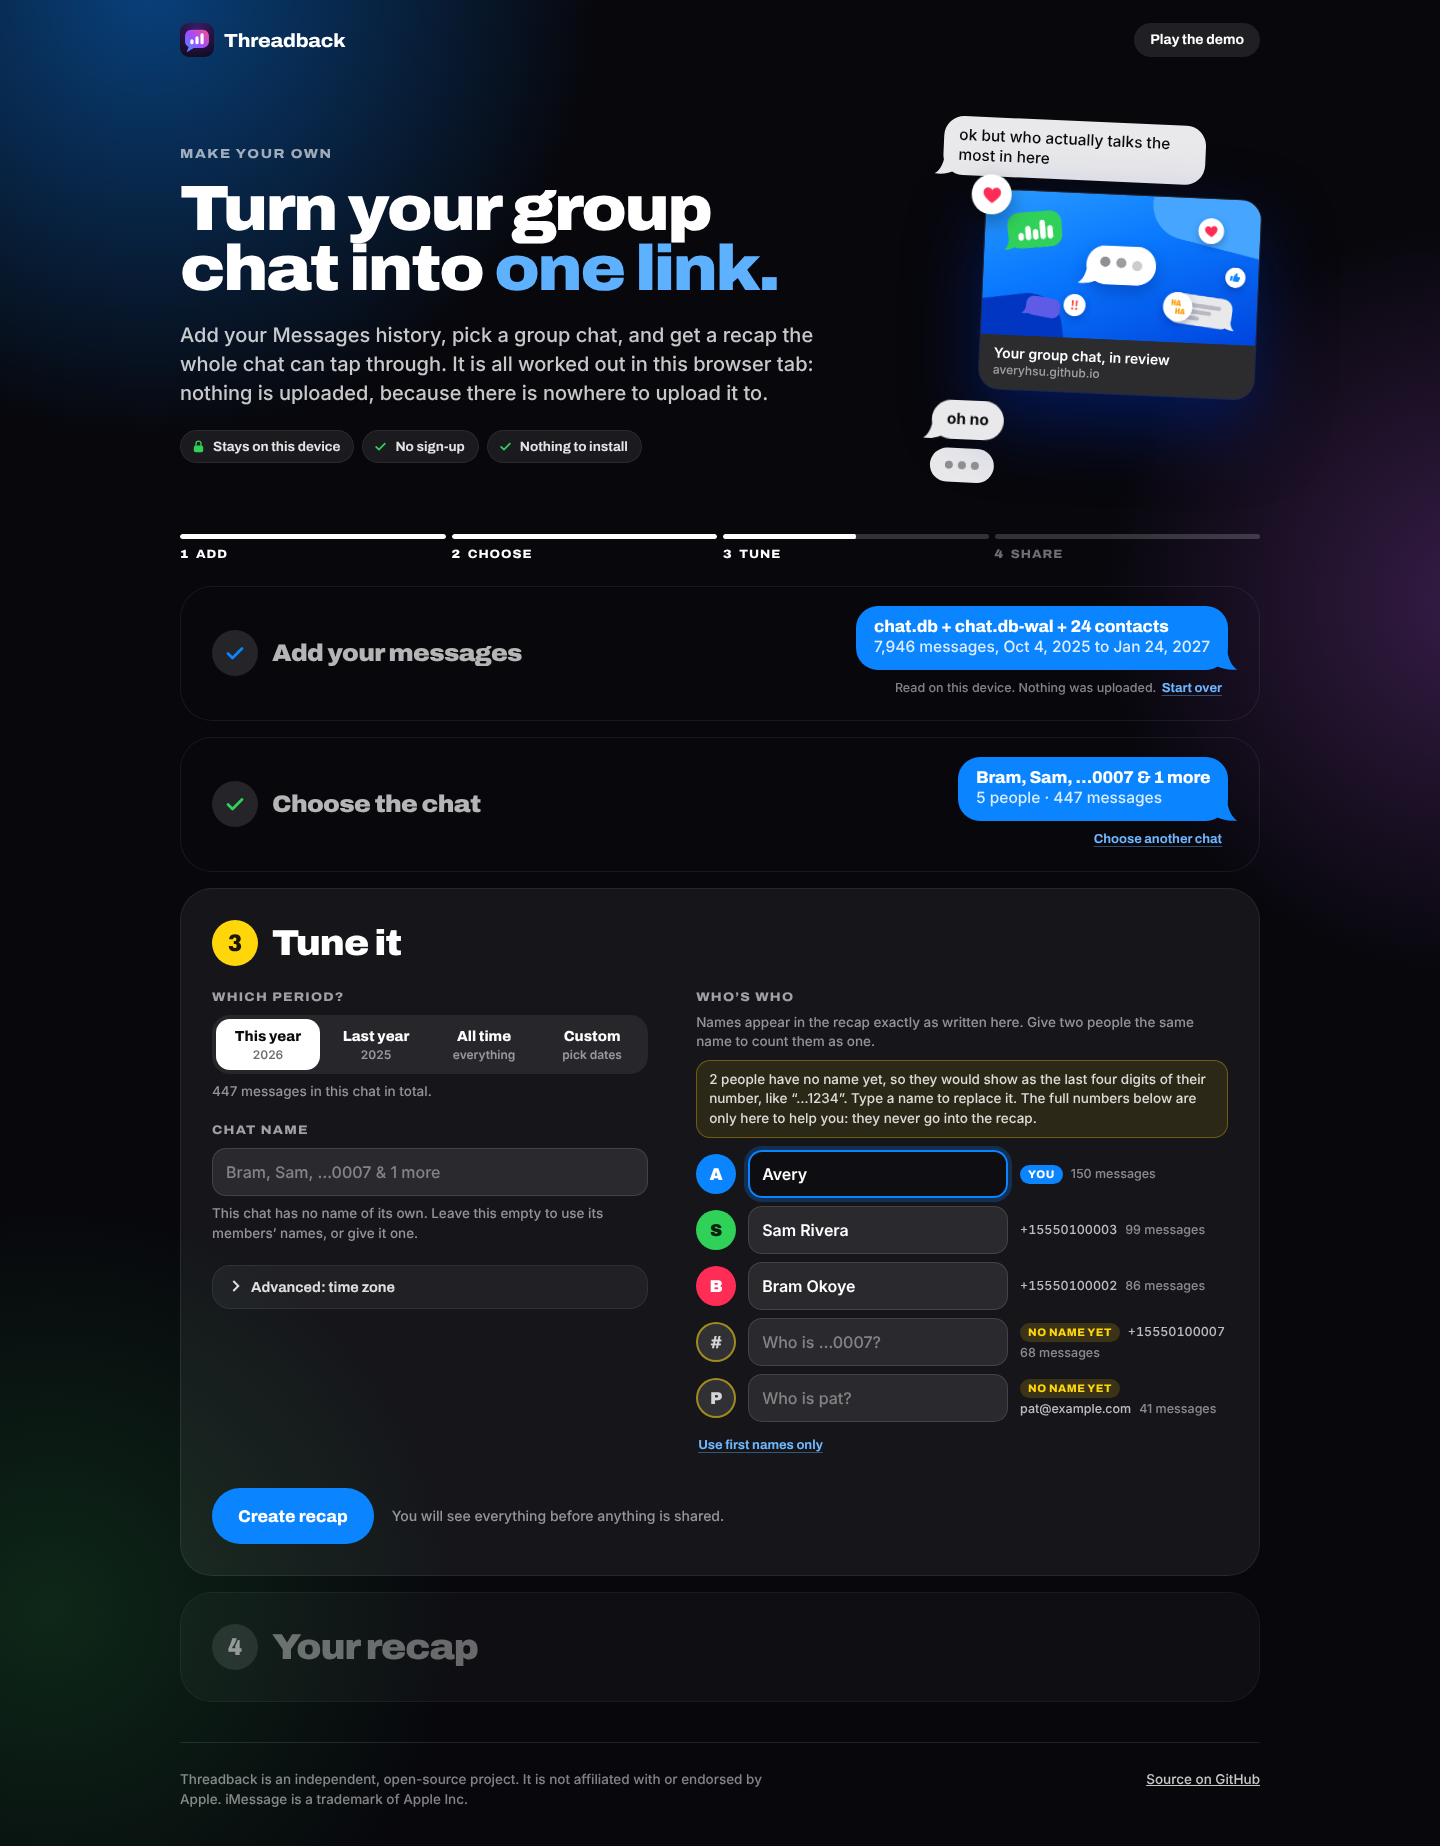
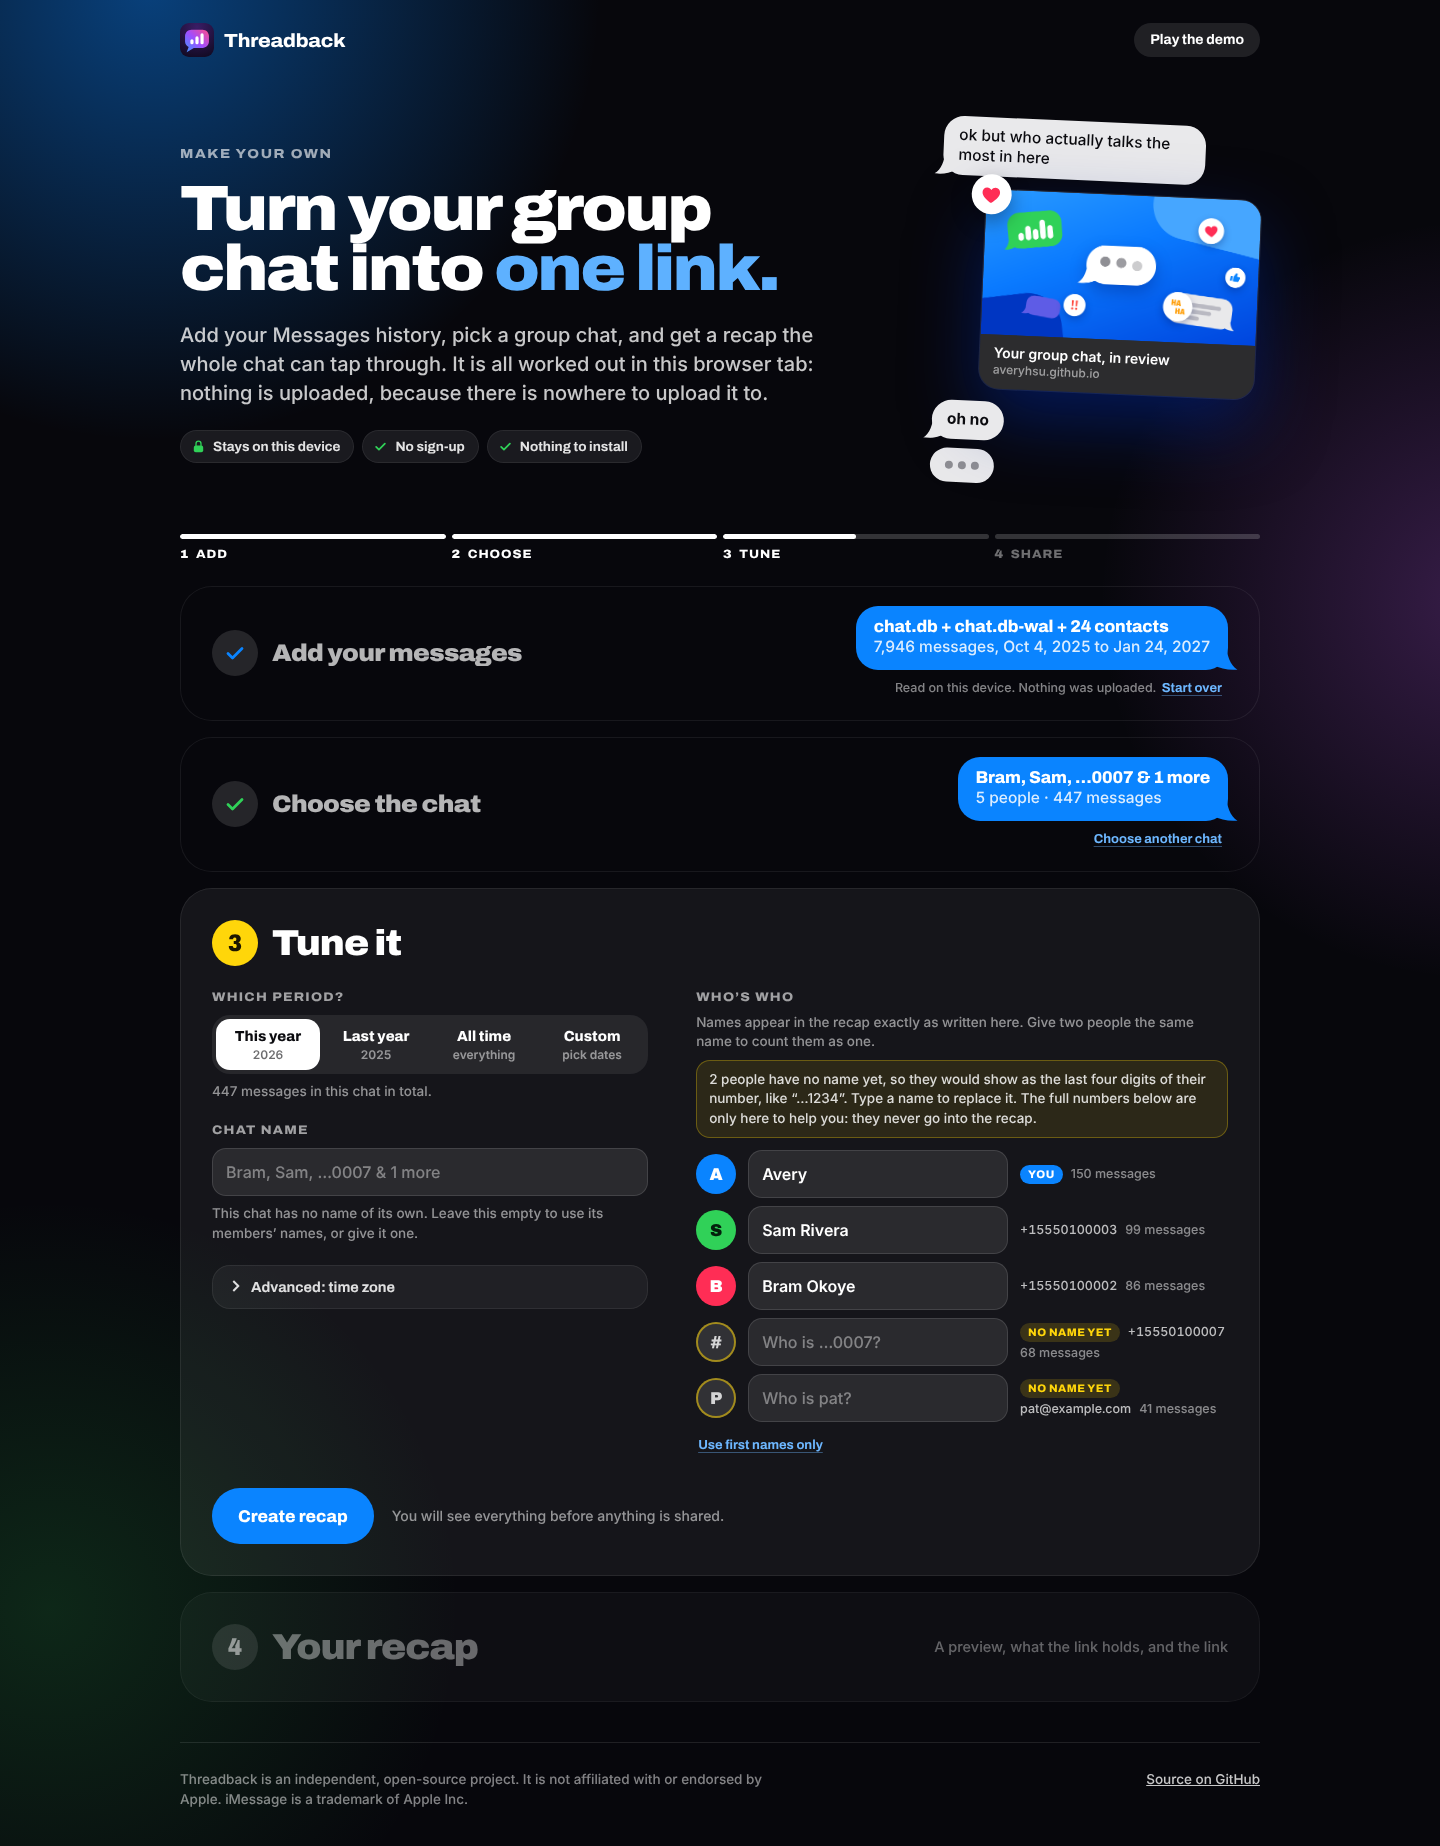
Make page: steady screenshots, locked steps say what they hold
- Locked steps carry one line about what comes next.
- The progress rail grows by width, not by a transform.
- The "busy" flag stays up while a recount is still scheduled, so a count
  that finishes just as a name is typed no longer looks final.
- Screenshots are taken with motion switched off and nothing focused or
  hovered, so repeated runs paint the same pixels.

Claude-Session: https://claude.ai/code/session_01HsT3WJgxawzje31yUV686t

Changed region(s): [[0.5, 0.6176, 0.7188, 0.6484], [0.75, 0.4014, 0.7812, 0.4323]]

diff --git a/web/make/make.css b/web/make/make.css
@@ -245,18 +245,16 @@
   content: "";
   position: absolute;
   top: 0;
-  right: 0;
   bottom: 0;
   left: 0;
+  width: 0;
   border-radius: 3px;
   background: #fff;
-  transform: scaleX(0);
-  transform-origin: 0 50%;
-  transition: transform 0.6s var(--ease-out);
+  transition: width 0.6s var(--ease-out);
 }
 
-.mk-rail > li.is-current i::after { transform: scaleX(0.5); }
-.mk-rail > li.is-done i::after { transform: scaleX(1); }
+.mk-rail > li.is-current i::after { width: 50%; }
+.mk-rail > li.is-done i::after { width: 100%; }
 
 .mk-rail span {
   display: block;
@@ -323,6 +321,18 @@
 /* Headings take focus when a step opens (so a screen reader announces it); they are not
    controls, so they get no focus ring. */
 .mk-step__title:focus { outline: 0; }
+
+/* What a step that is still locked will be about. */
+.mk-step__next {
+  display: none;
+  margin-left: auto;
+  padding-left: 16px;
+  text-align: right;
+  font: 500 14.5px/1.3 var(--font-text);
+  color: rgba(255, 255, 255, 0.36);
+}
+
+.mk-step.is-locked .mk-step__next { display: block; }
 
 .mk-step__body { margin-top: clamp(16px, 2.4vw, 24px); }
 
@@ -1332,6 +1342,7 @@ input[type="date"].mk-input { color-scheme: dark; }
 }
 
 @media (max-width: 700px) {
+  .mk-step.is-locked .mk-step__next { display: none; }
   .mk-tabs { grid-template-columns: minmax(0, 1fr); gap: 8px; }
   .mk-tab { padding: 12px 14px; border-radius: 18px; }
   .mk-tab > .mk-ico { font-size: 26px; }

diff --git a/web/make/make.js b/web/make/make.js
@@ -527,6 +527,7 @@
     $('quotes').checked = false;
     $('recap').hidden = true;
     clearTimeout(computeTimer);
+    computeTimer = 0;
     computeRun += 1;
     computePending = false;
     computeBusy = false;
@@ -1313,7 +1314,7 @@
     $('recap').classList.add('is-stale');
     clearTimeout(computeTimer);
     computePending = true;
-    computeTimer = setTimeout(compute, 320);
+    computeTimer = setTimeout(function () { computeTimer = 0; compute(); }, 320);
   }
 
   function computeOptions() {
@@ -1345,6 +1346,7 @@
    */
   function compute() {
     clearTimeout(computeTimer);
+    computeTimer = 0;
     computePending = true;
     if (computeBusy) { computeAgain = true; return; }
     computeBusy = true;
@@ -1357,14 +1359,14 @@
       if (run !== computeRun) return;
       computeBusy = false;
       if (computeAgain) { compute(); return; }
-      computePending = false;
+      computePending = computeTimer !== 0;       // a newer change may already be waiting
       idle('recap');
       onStats(result.stats);
     }, function (error) {
       if (run !== computeRun) return;
       computeBusy = false;
       if (computeAgain) { compute(); return; }
-      computePending = false;
+      computePending = computeTimer !== 0;       // a newer change may already be waiting
       idle('recap');
       $('recap').hidden = true;
       S.stats = null;

diff --git a/web/make/index.html b/web/make/index.html
@@ -227,6 +227,7 @@
       <header class="mk-step__head">
         <span class="mk-step__n" aria-hidden="true"><b>2</b><span class="mk-ico" data-icon="check"></span></span>
         <h2 class="mk-step__title" id="h-chat" tabindex="-1">Choose the chat</h2>
+        <p class="mk-step__next">Your group chats, busiest first</p>
       </header>
 
       <div class="mk-step__done" id="chat-done" hidden>
@@ -253,6 +254,7 @@
       <header class="mk-step__head">
         <span class="mk-step__n" aria-hidden="true"><b>3</b><span class="mk-ico" data-icon="check"></span></span>
         <h2 class="mk-step__title" id="h-tune" tabindex="-1">Tune it</h2>
+        <p class="mk-step__next">The period, and what everyone is called</p>
       </header>
 
       <div class="mk-step__body" id="tune-body" hidden>
@@ -312,6 +314,7 @@
       <header class="mk-step__head">
         <span class="mk-step__n" aria-hidden="true"><b>4</b><span class="mk-ico" data-icon="check"></span></span>
         <h2 class="mk-step__title" id="h-recap" tabindex="-1">Your recap</h2>
+        <p class="mk-step__next">A preview, what the link holds, and the link</p>
       </header>
 
       <div class="mk-step__body" id="recap-body" hidden>
